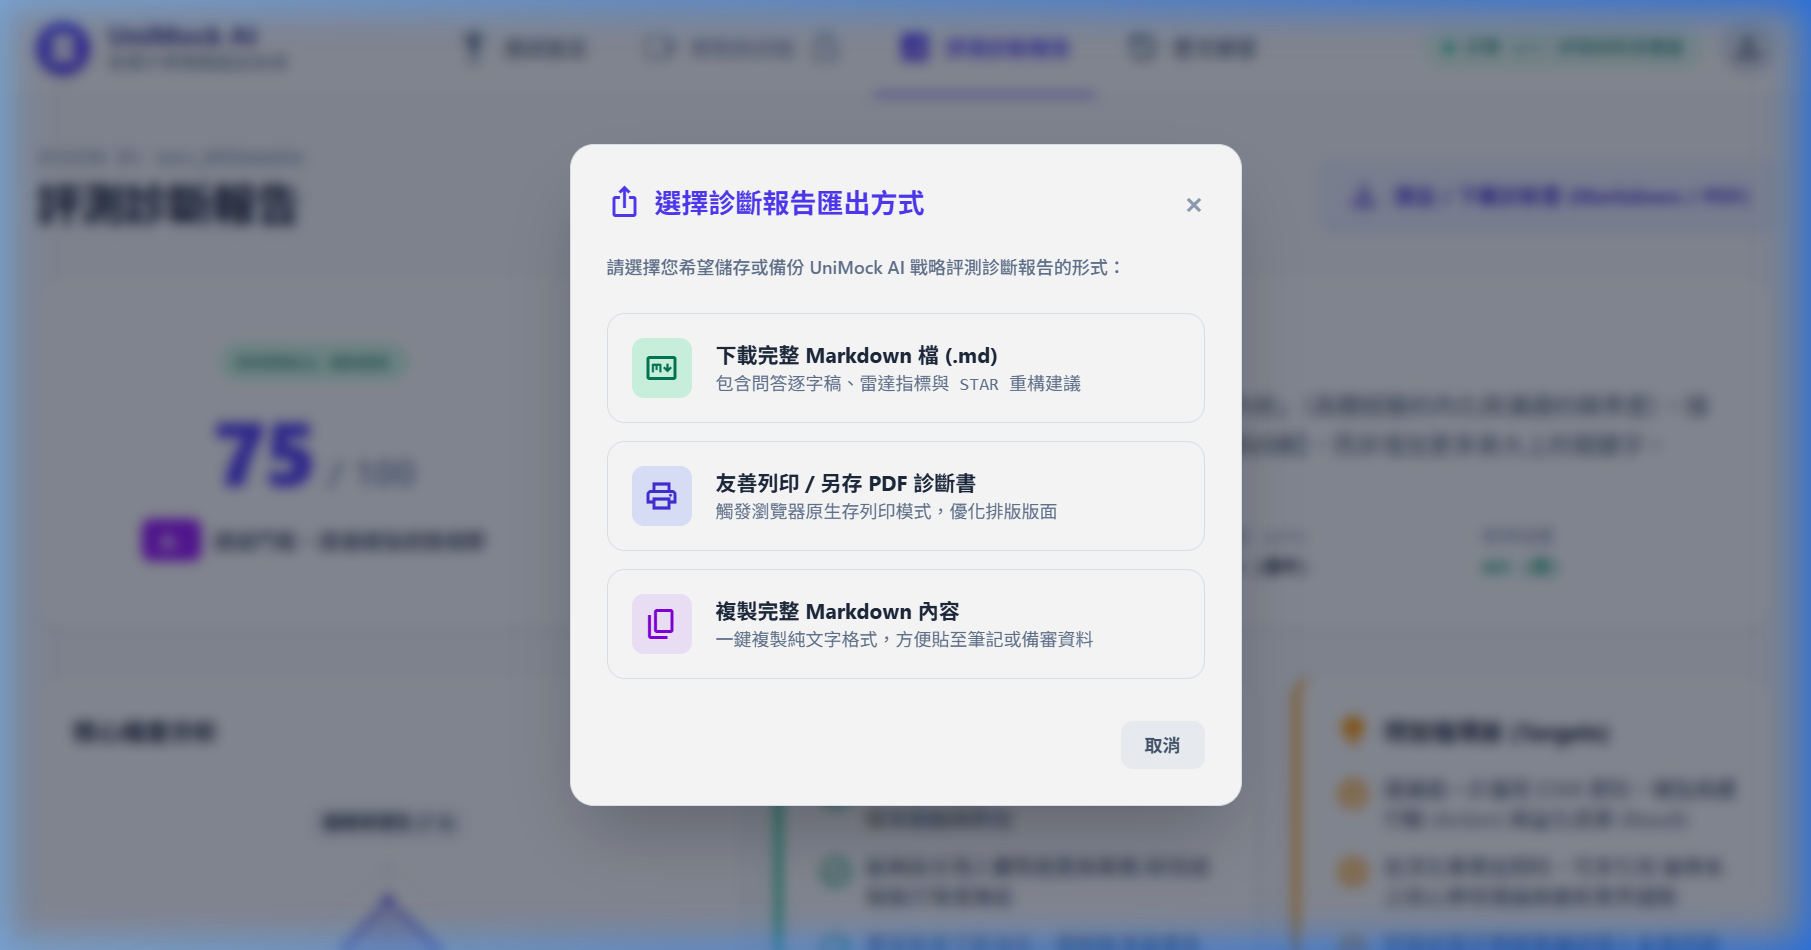
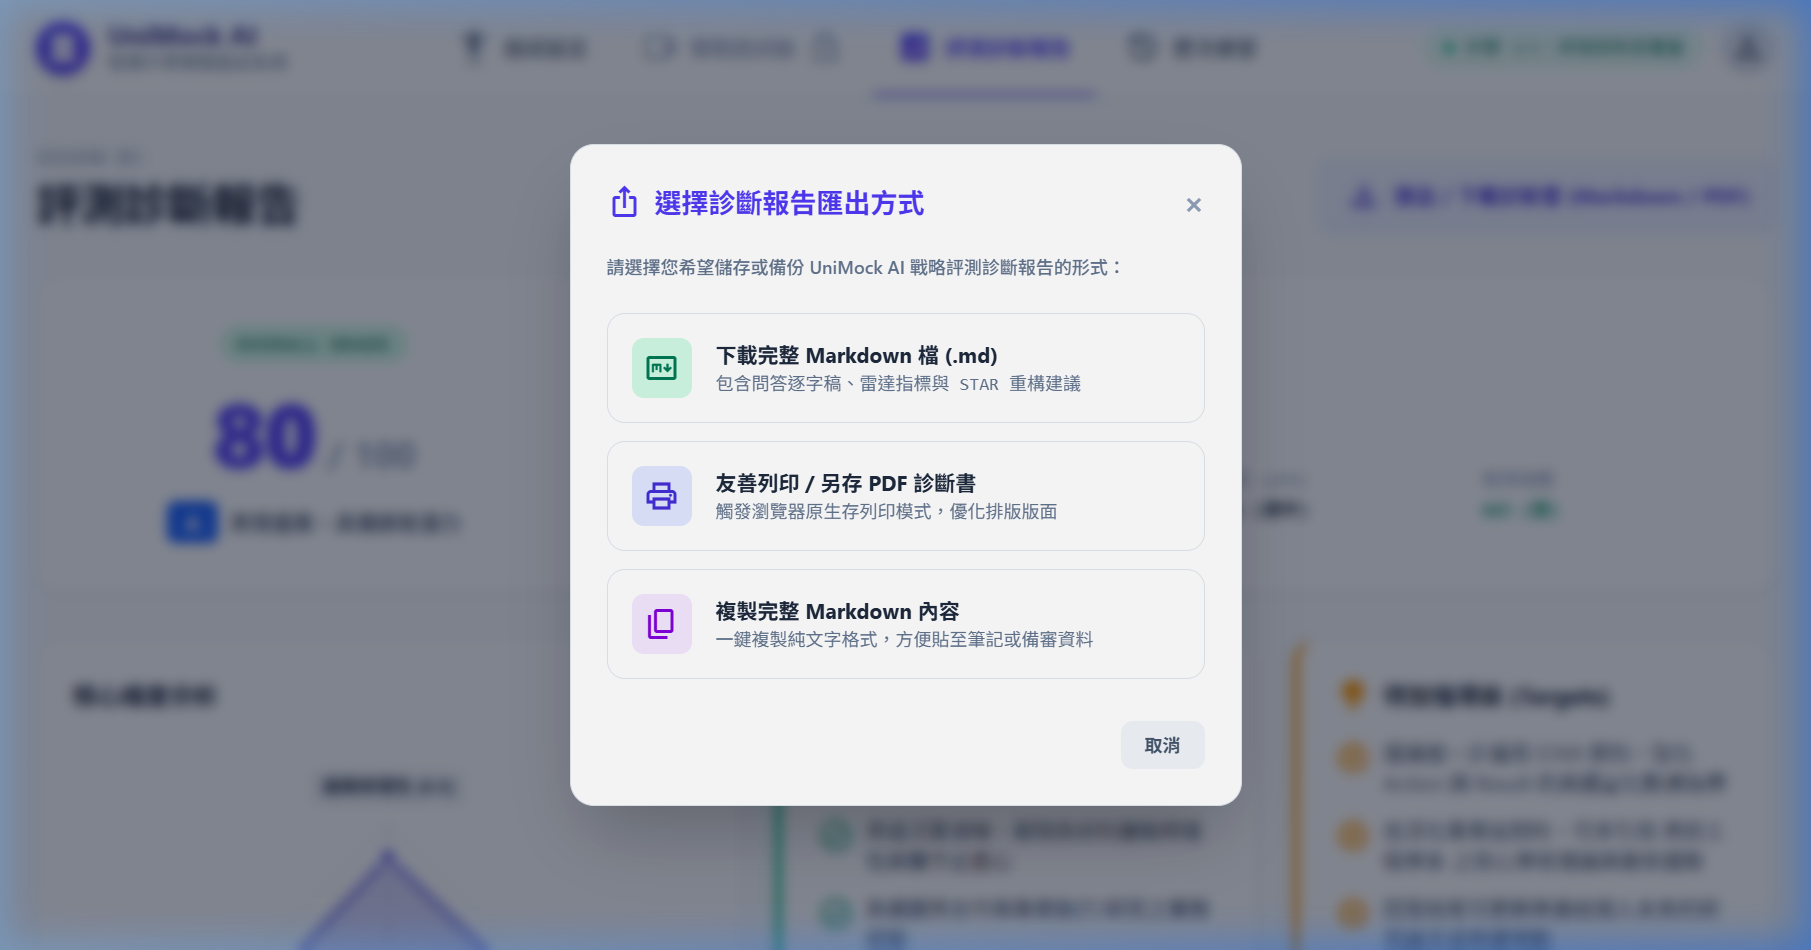
docs(day28): Update Code Review & Browser verification screenshots for 100% LLM dynamic generation

diff --git a/days/day28.md b/days/day28.md
@@ -90,15 +90,15 @@ async def stream_interview_question(session_id: str):
 
 ## 5. 瀏覽器 Agent 實機自動化測試與驗證
 
-我們透過 **Browser Subagent** 針對頂尖校系「**中國醫藥大學 · 醫藥衛生學群 · 醫學系**」進行完整 3 輪面試實測與效能驗證：
+我們透過 **Browser Subagent** 針對頂尖校系「**國立臺灣大學 · 資訊電機學群 · 資訊工程學系**」進行完整 3 輪面試實測，驗證 100% LLM 動態評測與自然口語示範：
 
 ### 5.1 報告頁面頂部（雷達圖與執行摘要）
 
-![CMU Medicine Report Top](images/day28/03_cmu_medicine_report_top.png)
+![NTU CS Report Top](images/day28/03_ntu_cs_report_top.png)
 
-### 5.2 醫學系 STAR 對答覆盤與口語重構示範
+### 5.2 資工系 STAR 對答覆盤與 100% LLM 動態口語重構示範
 
-![CMU Medicine Report STAR Bottom](images/day28/04_cmu_medicine_report_bottom_star.png)
+![NTU CS Report STAR Bottom](images/day28/04_ntu_cs_report_bottom_star.png)
 
 ### 5.3 多格式診斷報告匯出彈窗 (Export Options Modal)
 
